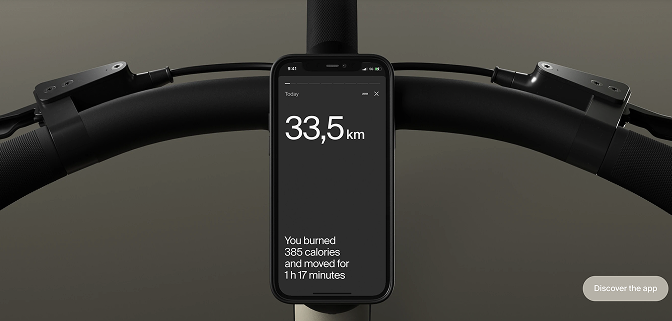
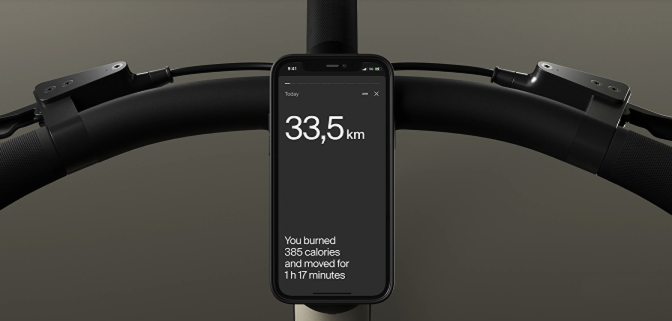
Fix bugs

diff --git a/index.html b/index.html
@@ -21,7 +21,7 @@
     <div class="header__top">
       <img src="src/images/logo.svg" alt="logo" class="logo__img">
       <nav class="header__nav">
-        <a href="#"><img src="src/images/icon-phone.svg" alt="icon phone" class="icon icon--phone"></a>
+        <a href="tel:+123455555" class="icon icon--phone"><img src="src/images/icon-phone.svg" alt="icon phone" class="icon icon--phone"></a>
         <a href="#menu"><img src="src/images/icon-menu.svg" alt="icon menu" class="icon icon--menu"></a>
       </nav>
     </div>
@@ -41,10 +41,10 @@
     </div>
     <div class="menu__links">
         <a href="#home" class="menu__link">Home</a>
-        <a href="" class="menu__link">About Us</a>
-        <a href="" class="menu__link">Compare Bikes</a>
-        <a href="" class="menu__link">Details</a>
-        <a href="" class="menu__link">Contacts</a>
+        <a href="#info" class="menu__link">About Us</a>
+        <a href="#bikes" class="menu__link">Compare Bikes</a>
+        <a href="#details" class="menu__link">Details</a>
+        <a href="#contacts" class="menu__link">Contacts</a>
         <a class="contact-number">+1 234 5555-55-55</a>
         <a href="" class="book">Book a test ride</a>
     </div>
@@ -56,8 +56,8 @@
         <p class="home__desc">Shift your ride, not gears. Find the fastest way to move in the city as the bike adapts intuitively to power the speed you need.</p>
       </section>
 
-      <section class="compare__bikes">
-        <h1 class="compare__bikes-title">Compare bikes</h1>
+      <section class="compare__bikes" id="bikes">
+        <h1 class="compare-bikes__title">Compare bikes</h1>
         <div class="bikes__wrapper">
           <div class="bike__card">
             <img src="./src/images/bikes/bike-1.png" alt="bike" class="bike__img">
@@ -82,56 +82,62 @@
 
 
       <section class="details">
-        <h2 class="details__title">The Details</h2>
+        <h2 class="details__title" id="details">The Details</h2>
         <div class="details__blocks">
           <div class="details__block">
             <div class="details__img-wrapper">
-              <img src="./src/images/blocks-img/block_img-1.png" alt="img" class="block-img">
+              <img src="./src/images/blocks-img/block_img-1.png" alt="img" class="block-img img-active">
               <img src="./src/images/blocks-img/block_img-2.png" alt="img" class="block-img">
             </div>
             <h3 class="block__title">Auto Unlock</h3>
-            <p class="block_text">The app senses when you're nearby to unlock automatically. GPS tracking so you know where your bike is and can track it anytime.</p>
+            <p class="block__text">The app senses when you're nearby to unlock automatically. GPS tracking so you know where your bike is and can track it anytime.</p>
           </div>
           <div class="details__block">
             <div class="details__img-wrapper">
-              <img src="./src/images/blocks-img/block_img-3.png" alt="img" class="block-img">
-              <img src="./src/images/blocks-img/blcok_img-4.png" alt="img" class="block-img">
+              <img src="./src/images/blocks-img/block_img-3.png" alt="img" class="block-img img-active">
+              <img src="./src/images/blocks-img/block_img-4.png" alt="img" class="block-img">
             </div>
             <h3 class="block__title">Range & Integrated lights</h3>
-            <p class="block_text">The removable battery has up to 70km battery autonomy and weighs only 2.4 kg. Lights integrated into the frame give you always-on visibility day and night.</p>
+            <p class="block__text">The removable battery has up to 70km battery autonomy and weighs only 2.4 kg. Lights integrated into the frame give you always-on visibility day and night.</p>
           </div>
           <div class="details__block">
             <div class="details__img-wrapper">
               <img src="./src/images/blocks-img/block_img-5.png" alt="img" class="block-img">
-              <img src="./src/images/blocks-img/block_img-6.png" alt="img" class="block-img">
+              <img src="./src/images/blocks-img/block_img-6.png" alt="img" class="block-img img-active">
             </div>
             <h3 class="block__title">Hydraulic disc brakes <br> & Lightweight</h3>
-            <p class="block_text">Brakes with total stopping power the second you make contact. The removable battery has up to 70km battery autonomy and weighs only 2.4 kg. Lights integrated into the frame give you always-on visibility day and night.</p>
+            <p class="block__text">Brakes with total stopping power the second you make contact. The removable battery has up to 70km battery autonomy and weighs only 2.4 kg. Lights integrated into the frame give you always-on visibility day and night.</p>
           </div>
         </div>
-        <a href="#" class="btn">Explore</a>
+        <div class="link__wrapper">
+          <a href="#" class="btn">Explore</a>
+        </div>
       </section>
 
-      <section class="contacts">
+      <section class="contacts" id="contacts">
         <h2 class="contacts__title">Contact us</h2>
-        <label class="contacts__inputs">
-          <input type="text" class="name__input"
-           name="name" id="name" placeholder="Name">
-          <input type="email" class="email__input"
-           name="email" id="email"
-          placeholder="Email">
-          <textarea class="contact__message" name="" id=""
-          placeholder="Message"></textarea>
-        </label>
-        <a href="#" class="btn">Send</a>
+        <div class="contacts__wrapper">
+          <form class="contacts__label" onsubmit="this.reset(); return false;">
+            <label class="contacts__inputs">
+              <input type="text" class="name__input"
+              name="name" id="name" placeholder="Name" required>
+              <input type="email" class="email__input"
+              name="email" id="email"
+              placeholder="Email" required>
+              <textarea class="contact__message" name="" id=""
+              placeholder="Message" required></textarea>
+            </label>
+            <button href="#" class="btn">Send</button>
+          </form>
 
-        <div class="contacts__info">
-          <p class="info__name">Phone</p>
-          <span class="info__text">+1 234 5555-55-55</span>
-          <p class="info__name">Email</p>
-          <span class="info__text">hello@miami.com</span>
-          <p class="info__name">Address</p>
-          <span class="info__text">400 first ave.<br>suite 700<br> Minneapolis, MN 55401</span>
+          <div class="contacts__info" id="info">
+            <p class="info__name">Phone</p>
+            <a href="tel: +12345555" class="info__text">+1 234 5555-55-55</a>
+            <p class="info__name">Email</p>
+            <a href="mailto:hello@miami.com" class="info__text">hello@miami.com</a>
+            <p class="info__name">Address</p>
+            <a href="https://maps.app.goo.gl/osyEbaSSS85ZX72E7" class="info__text">400 first ave.<br>suite 700<br> Minneapolis, MN 55401</a>
+          </div>
         </div>
       </section>
     </main>

diff --git a/src/blocks/menu.scss b/src/blocks/menu.scss
@@ -22,6 +22,7 @@
 .menu {
   box-sizing: border-box;
   background: $color-menu-inner;
+  overflow-y: hidden;
   height: 100%;
 
   &__links {
@@ -29,19 +30,41 @@
     flex-direction: column;
     gap: 28px;
     padding: 24px $container-padding 0;
+
     @include tablet {
       padding: 24px 72px 0;
     }
-    @media (min-width: $desktop) {
+
+    @include desktop {
       padding: 24px 121px 0;
   }
   }
 
-  &__link {
-    font-weight: 600;
-    font-size: 22px;
-    letter-spacing: 0.09em;
-    text-transform: uppercase;
-    color: $color-black;
+ &__link {
+  font-weight: 600;
+  display: inline-block;
+  position: relative;
+  width: fit-content;
+  font-size: 22px;
+  letter-spacing: 0.09em;
+  text-transform: uppercase;
+  color: $color-black;
+
+  &::after {
+    content: '';
+    position: absolute;
+    bottom: 0;
+    left: 0;
+    width: 100%;
+    height: 2px;
+    background-color: $color-black;
+    transform: scaleX(0);
+    transform-origin: left;
+    transition: transform 0.3s ease;
+  }
+
+  &:hover::after {
+    transform: scaleX(1);
   }
 }
+  }

diff --git a/src/styles/style.scss b/src/styles/style.scss
@@ -1,13 +1,13 @@
-@import '../blocks/variables.scss';
-@import '../blocks/mixins.scss';
-@import '../blocks/contacts.scss';
-@import '../blocks/header.scss';
-@import '../blocks/menu.scss';
-@import '../blocks/home.scss';
-@import '../blocks/compare-bikes.scss';
-@import '../blocks/images.scss';
-@import '../blocks/details.scss';
-@import '../blocks/main.scss';
-@import '../blocks/buttons-inputs.scss';
-@import '../blocks/footer.scss';
+@import '../blocks/variables';
+@import '../blocks/mixins';
+@import '../blocks/contacts';
+@import '../blocks/header';
+@import '../blocks/menu';
+@import '../blocks/home';
+@import '../blocks/compare-bikes';
+@import '../blocks/images';
+@import '../blocks/details';
+@import '../blocks/main';
+@import '../blocks/buttons-inputs';
+@import '../blocks/footer';
 @import 'https://fonts.googleapis.com/css2?family=Poppins:wght@300;400;500;600;700;800&display=swap';

diff --git a/src/blocks/main.scss b/src/blocks/main.scss
@@ -1,8 +1,3 @@
-html {
-  position: relative;
-  overflow-x: hidden;
-}
-
 body {
   font-family: $primary-font;
   margin: 0;
@@ -13,6 +8,19 @@ body {
   background: $color-bg-dark;
 }
 
+html {
+  position: relative;
+  overflow-x: hidden;
+
+  &:has(.page__menu:target) {
+    overflow: hidden;
+
+    body {
+      overflow: hidden;
+    }
+  }
+}
+
 a {
   text-decoration: none;
   color: inherit;
@@ -20,6 +28,7 @@ a {
 
 .main {
   padding: 0 $container-padding;
+
   @include tablet {
     margin: 0 auto;
     width: 600px;

diff --git a/src/blocks/buttons-inputs.scss b/src/blocks/buttons-inputs.scss
@@ -35,7 +35,9 @@ input, .contact__message {
   @include desktop {
     padding: 14px 131px;
   }
+
   padding: 14px 131px;
+  border: none;
   font-weight: 700;
   font-size: 16px;
   text-align: center;
@@ -56,6 +58,7 @@ input, .contact__message {
 }
 
 .contact__message {
+  resize: none;
   border-radius: 16px;
   padding: 14px 16px;
   min-height: 148px;

diff --git a/src/blocks/images.scss b/src/blocks/images.scss
@@ -47,6 +47,7 @@
   width: 130px;
   height: 130px;
   transition: $menu-transition;
+
   @include tablet {
     width: 392px;
     height: 187px;
@@ -66,6 +67,6 @@
 }
 
 .block-img:hover {
-  transform: scale(1.2);
+  transform: scale(1.05);
 }
 

diff --git a/src/blocks/header.scss b/src/blocks/header.scss
@@ -12,9 +12,11 @@
     display: flex;
     justify-content: space-between;
     align-items: center;
+
     @include tablet {
       padding: 0 72px;
     }
+    
     @include desktop {
       padding: 0 120px;
     }

diff --git a/src/blocks/details.scss b/src/blocks/details.scss
@@ -41,6 +41,7 @@
   &__text {
     font-weight: 400;
     font-size: 16px;
+    
     @include desktop {
       width: 672px;
       height: 44px;

diff --git a/src/blocks/compare-bikes.scss b/src/blocks/compare-bikes.scss
@@ -39,6 +39,7 @@
   &__text {
     font-weight: 400;
     font-size: 16px;
+
     @include tablet {
       width: 392px;
       height: 44px;

diff --git a/src/blocks/footer.scss b/src/blocks/footer.scss
@@ -6,6 +6,7 @@
   @include tablet {
     height: 480px;
   }
+  
   @include desktop {
     height: 555px;
   }
